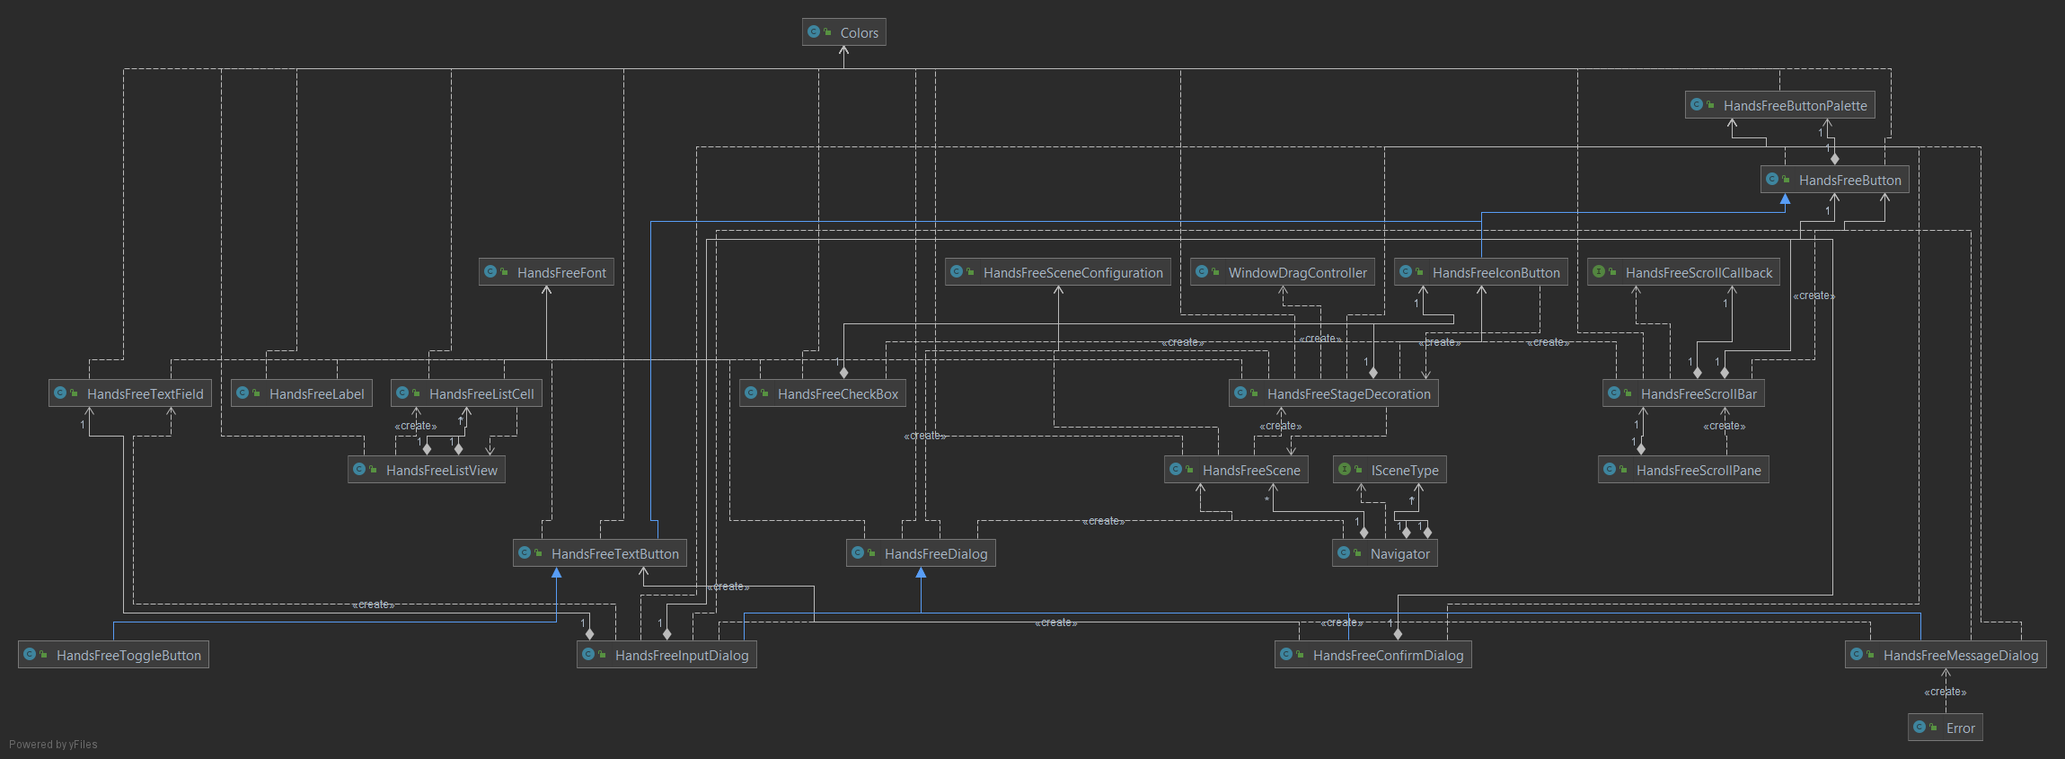
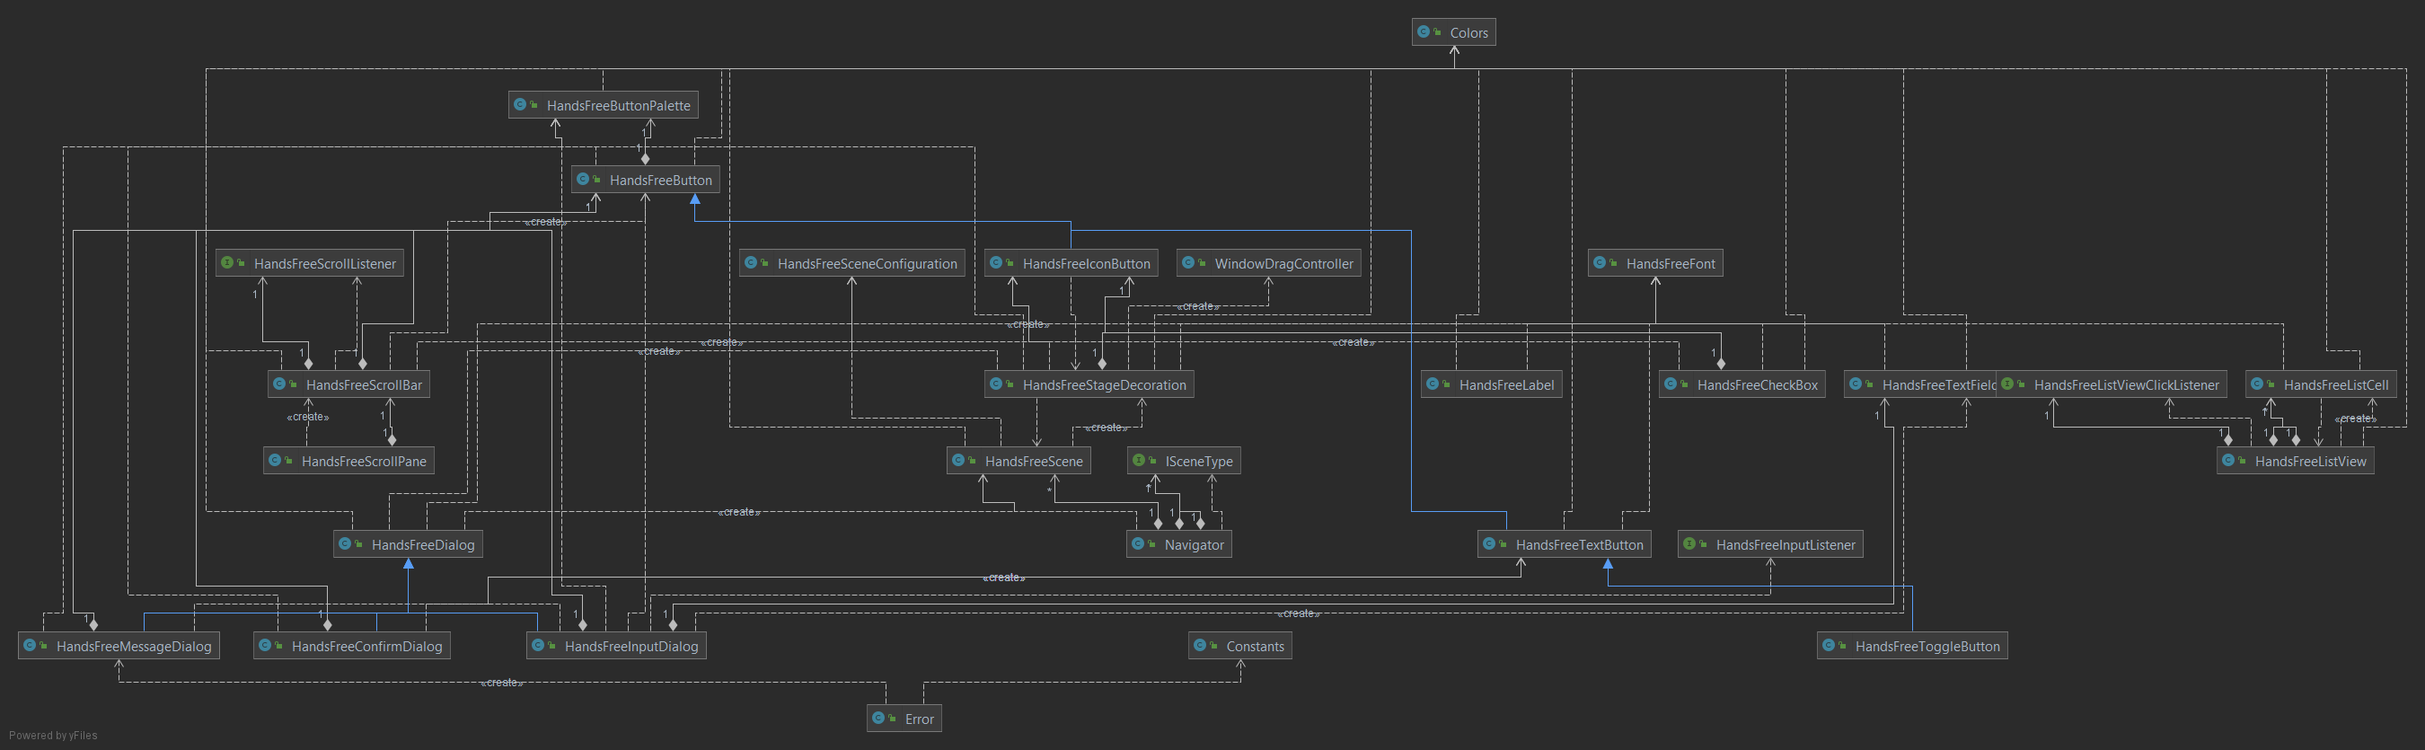
Updated the classes
Updated the class diagrams and descriptions

diff --git a/handsfree/installer/src/main/java/ch/bbcag/installer/scenes/DirectoryChooser.java b/handsfree/installer/src/main/java/ch/bbcag/installer/scenes/DirectoryChooser.java
@@ -4,7 +4,7 @@ import ch.bbcag.handsfree.error.Error;
 import ch.bbcag.handsfree.gui.HandsFreeLabel;
 import ch.bbcag.handsfree.gui.button.HandsFreeButtonPalette;
 import ch.bbcag.handsfree.gui.button.HandsFreeTextButton;
-import ch.bbcag.installer.Const;
+import ch.bbcag.installer.InstallerConstants;
 import ch.bbcag.installer.InstallerApplication;
 import ch.bbcag.installer.error.ErrorMessages;
 import javafx.application.Platform;
@@ -33,7 +33,7 @@ public class DirectoryChooser extends InstallerScene {
                 "Select a path where to install the program down below or leave it at the standard path and continue."
         );
         label.setWrapText(true);
-        BorderPane.setMargin(label, Const.LABEL_MARGIN);
+        BorderPane.setMargin(label, InstallerConstants.LABEL_MARGIN);
 
         application.setSelectedPath(new File("C:/Program Files/HandsFree/"));
         directoryText = new HandsFreeLabel(application.getSelectedPath().getAbsolutePath());
@@ -55,14 +55,14 @@ public class DirectoryChooser extends InstallerScene {
         }
 
         HandsFreeTextButton directorySelector = new HandsFreeTextButton("Select...");
-        directorySelector.setPrefWidth(Const.BUTTON_WIDTH);
-        directorySelector.setPadding(Const.BUTTON_PADDING);
+        directorySelector.setPrefWidth(InstallerConstants.BUTTON_WIDTH);
+        directorySelector.setPadding(InstallerConstants.BUTTON_PADDING);
         directorySelector.setOnAction(e -> {
             File chosenPath = directoryChooser.showDialog(application.getPrimaryStage());
             setSelectedPathAndText(application, chosenPath);
         });
 
-        HBox hBox = new HBox(Const.BOX_SPACING, directoryText, directorySelector);
+        HBox hBox = new HBox(InstallerConstants.BOX_SPACING, directoryText, directorySelector);
         hBox.maxHeightProperty().bind(directorySelector.heightProperty());
         hBox.setAlignment(Pos.CENTER_LEFT);
         BorderPane.setAlignment(hBox, Pos.TOP_LEFT);
@@ -101,18 +101,18 @@ public class DirectoryChooser extends InstallerScene {
         try {
             createSelectedPathIfNotCreated(application);
 
-            File targetJarFile = new File(application.getSelectedPath().getAbsolutePath() + "/" + Const.JAR_FILE_NAME);
+            File targetJarFile = new File(application.getSelectedPath().getAbsolutePath() + "/" + InstallerConstants.JAR_FILE_NAME);
             createFileAndParentFileIfNotCreated(targetJarFile);
 
-            File targetIconFile = new File(application.getSelectedPath().getAbsolutePath() + "/" + Const.ICON_NAME);
+            File targetIconFile = new File(application.getSelectedPath().getAbsolutePath() + "/" + InstallerConstants.ICON_NAME);
             createFileAndParentFileIfNotCreated(targetIconFile);
 
-            File targetExeFile = new File(application.getSelectedPath().getAbsolutePath() + "/" + Const.EXE_FILE_NAME);
+            File targetExeFile = new File(application.getSelectedPath().getAbsolutePath() + "/" + InstallerConstants.EXE_FILE_NAME);
             createFileAndParentFileIfNotCreated(targetExeFile);
 
-            InputStream jarInputStream = DirectoryChooser.class.getResourceAsStream("/" + Const.JAR_FILE_NAME);
-            InputStream iconInputStream = DirectoryChooser.class.getResourceAsStream("/" + Const.ICON_NAME);
-            InputStream exeInputStream = DirectoryChooser.class.getResourceAsStream("/" + Const.EXE_FILE_NAME);
+            InputStream jarInputStream = DirectoryChooser.class.getResourceAsStream("/" + InstallerConstants.JAR_FILE_NAME);
+            InputStream iconInputStream = DirectoryChooser.class.getResourceAsStream("/" + InstallerConstants.ICON_NAME);
+            InputStream exeInputStream = DirectoryChooser.class.getResourceAsStream("/" + InstallerConstants.EXE_FILE_NAME);
 
             copyFiles(jarInputStream, targetJarFile);
             copyFiles(iconInputStream, targetIconFile);

diff --git a/handsfree/uninstaller/src/main/java/ch/bbcag/uninstaller/scenes/UnInstallerScene.java b/handsfree/uninstaller/src/main/java/ch/bbcag/uninstaller/scenes/UnInstallerScene.java
@@ -4,7 +4,7 @@ import ch.bbcag.handsfree.gui.HandsFreeScene;
 import ch.bbcag.handsfree.gui.HandsFreeSceneConfiguration;
 import ch.bbcag.handsfree.gui.button.HandsFreeButtonPalette;
 import ch.bbcag.handsfree.gui.button.HandsFreeTextButton;
-import ch.bbcag.uninstaller.Const;
+import ch.bbcag.uninstaller.UninstallerConstants;
 import javafx.animation.AnimationTimer;
 import javafx.geometry.Insets;
 import javafx.geometry.Pos;
@@ -27,16 +27,16 @@ public class UninstallerScene extends HandsFreeScene {
     public UninstallerScene(Stage stage, HandsFreeSceneConfiguration configuration) {
         super(stage, new HBox(), configuration);
 
-        getContentRoot().setMinSize(Const.WIDTH, Const.HEIGHT);
-        getContentRoot().setMaxSize(Const.WIDTH, Const.HEIGHT);
+        getContentRoot().setMinSize(UninstallerConstants.WIDTH, UninstallerConstants.HEIGHT);
+        getContentRoot().setMaxSize(UninstallerConstants.WIDTH, UninstallerConstants.HEIGHT);
 
         borderPane = new BorderPane();
-        borderPane.setPadding(new Insets(Const.BOX_PADDING_TOP_BOTTOM, Const.BOX_PADDING_RIGHT_LEFT, Const.BOX_PADDING_TOP_BOTTOM,
-                                         Const.BOX_PADDING_RIGHT_LEFT));
+        borderPane.setPadding(new Insets(UninstallerConstants.BOX_PADDING_TOP_BOTTOM, UninstallerConstants.BOX_PADDING_RIGHT_LEFT, UninstallerConstants.BOX_PADDING_TOP_BOTTOM,
+                                         UninstallerConstants.BOX_PADDING_RIGHT_LEFT));
         HBox.setHgrow(borderPane, Priority.ALWAYS);
         ((HBox) getContentRoot()).getChildren().add(borderPane);
 
-        buttonHBox = new HBox(Const.BOX_SPACING);
+        buttonHBox = new HBox(UninstallerConstants.BOX_SPACING);
         buttonHBox.setAlignment(Pos.BOTTOM_RIGHT);
         borderPane.setBottom(buttonHBox);
     }
@@ -50,8 +50,8 @@ public class UninstallerScene extends HandsFreeScene {
         LinearGradient gradient = new LinearGradient(0, 0, 1, 0, true, CycleMethod.NO_CYCLE, stops);
 
         Pane imageContainer = new Pane();
-        imageContainer.setMinWidth(Const.HEIGHT * 0.6);
-        imageContainer.setMinHeight(Const.HEIGHT);
+        imageContainer.setMinWidth(UninstallerConstants.HEIGHT * 0.6);
+        imageContainer.setMinHeight(UninstallerConstants.HEIGHT);
         imageContainer.setBackground(new Background(new BackgroundFill(gradient, null, null)));
 
         ImageView imageView = new ImageView(new Image(Objects.requireNonNull(Start.class.getResourceAsStream("/images/icon128.png"))));
@@ -79,8 +79,8 @@ public class UninstallerScene extends HandsFreeScene {
 
     public void addButton(String text, HandsFreeButtonPalette palette, Runnable onClicked) {
         HandsFreeTextButton button = new HandsFreeTextButton(text);
-        button.setPrefWidth(Const.BUTTON_WIDTH);
-        button.setPadding(Const.BUTTON_PADDING);
+        button.setPrefWidth(UninstallerConstants.BUTTON_WIDTH);
+        button.setPadding(UninstallerConstants.BUTTON_PADDING);
         button.setPalette(palette);
         button.setOnAction(event -> {
             if(onClicked != null) {

diff --git a/handsfree/application/src/main/java/ch/bbcag/handsfree/scenes/MainMenu.java b/handsfree/application/src/main/java/ch/bbcag/handsfree/scenes/MainMenu.java
@@ -1,6 +1,6 @@
 package ch.bbcag.handsfree.scenes;
 
-import ch.bbcag.handsfree.Const;
+import ch.bbcag.handsfree.ApplicationConstants;
 import ch.bbcag.handsfree.HandsFreeApplication;
 import ch.bbcag.handsfree.HandsFreeContext;
 import ch.bbcag.handsfree.config.Autorun;
@@ -11,8 +11,6 @@ import ch.bbcag.handsfree.error.SpeechRecognizerException;
 import ch.bbcag.handsfree.gui.HandsFreeScrollPane;
 import ch.bbcag.handsfree.gui.button.HandsFreeTextButton;
 import ch.bbcag.handsfree.gui.button.HandsFreeToggleButton;
-import ch.bbcag.handsfree.gui.dialog.HandsFreeMessageDialog;
-import ch.bbcag.handsfree.gui.onscreenkeyboard.HandsFreeOnScreenKeyboard;
 import javafx.scene.layout.HBox;
 import javafx.scene.layout.VBox;
 
@@ -29,8 +27,8 @@ public class MainMenu extends ApplicationScene {
     public MainMenu(HandsFreeApplication application, HandsFreeContext context) {
         super(application.getPrimaryStage(), new HandsFreeScrollPane(), application.getConfiguration(), "HandsFree");
 
-        getContentRoot().setMinSize(Const.WIDTH, Const.HEIGHT);
-        getContentRoot().setMaxSize(Const.WIDTH, Const.HEIGHT);
+        getContentRoot().setMinSize(ApplicationConstants.WIDTH, ApplicationConstants.HEIGHT);
+        getContentRoot().setMaxSize(ApplicationConstants.WIDTH, ApplicationConstants.HEIGHT);
 
         initGUI(application, context);
     }
@@ -68,10 +66,10 @@ public class MainMenu extends ApplicationScene {
         initToggleSpeechControl(context);
         initToggleOnScreenKeyboard(context);
         initToggleAutorun();
-        toggleEyeTracking.setEnabled(Configuration.readConfiguration(Const.EYE_TRACKING_STATE));
-        toggleHeadTracking.setEnabled(Configuration.readConfiguration(Const.HEAD_TRACKING_STATE));
-        toggleSpeechControl.setEnabled(Configuration.readConfiguration(Const.SPEECH_CONTROL_STATE));
-        toggleAutorun.setEnabled(Configuration.readConfiguration(Const.AUTORUN_STATE));
+        toggleEyeTracking.setEnabled(Configuration.readConfiguration(ApplicationConstants.EYE_TRACKING_STATE));
+        toggleHeadTracking.setEnabled(Configuration.readConfiguration(ApplicationConstants.HEAD_TRACKING_STATE));
+        toggleSpeechControl.setEnabled(Configuration.readConfiguration(ApplicationConstants.SPEECH_CONTROL_STATE));
+        toggleAutorun.setEnabled(Configuration.readConfiguration(ApplicationConstants.AUTORUN_STATE));
         hasBeenRead = true;
     }
 

diff --git a/handsfree/installer/src/main/java/ch/bbcag/installer/scenes/Shortcut.java b/handsfree/installer/src/main/java/ch/bbcag/installer/scenes/Shortcut.java
@@ -4,7 +4,7 @@ import ch.bbcag.handsfree.error.Error;
 import ch.bbcag.handsfree.gui.HandsFreeCheckBox;
 import ch.bbcag.handsfree.gui.HandsFreeLabel;
 import ch.bbcag.handsfree.gui.button.HandsFreeButtonPalette;
-import ch.bbcag.installer.Const;
+import ch.bbcag.installer.InstallerConstants;
 import ch.bbcag.installer.InstallerApplication;
 import ch.bbcag.installer.error.ErrorMessages;
 import javafx.application.Platform;
@@ -30,13 +30,13 @@ public class Shortcut extends InstallerScene {
                                                   "you want to have a desktop and a start menu shortcut.\n" +
                                                   "Check them if you want and continue.");
         label.setWrapText(true);
-        BorderPane.setMargin(label, Const.LABEL_MARGIN);
+        BorderPane.setMargin(label, InstallerConstants.LABEL_MARGIN);
 
         desktopShortcutCheckBox = new HandsFreeCheckBox("Create a desktop shortcut");
         desktopShortcutCheckBox.setSelected(true);
         startMenuShortcutCheckBox = new HandsFreeCheckBox("Create a start menu shortcut");
         startMenuShortcutCheckBox.setSelected(true);
-        VBox checkBoxHBox = new VBox(Const.BOX_SPACING, desktopShortcutCheckBox, startMenuShortcutCheckBox);
+        VBox checkBoxHBox = new VBox(InstallerConstants.BOX_SPACING, desktopShortcutCheckBox, startMenuShortcutCheckBox);
 
         addButton("Cancel", HandsFreeButtonPalette.DEFAULT_PALETTE, Platform::exit);
         addButton("< Back", HandsFreeButtonPalette.DEFAULT_PALETTE, () -> application.getNavigator().navigateTo(SceneType.DIRECTORY_CHOOSER));
@@ -47,8 +47,8 @@ public class Shortcut extends InstallerScene {
     }
 
     public void createShortcuts(InstallerApplication application) {
-        ShellLink shortcut = ShellLink.createLink(application.getSelectedPath() + "/" + Const.JAR_FILE_NAME)
-                                      .setIconLocation(application.getSelectedPath().getAbsolutePath() + "/" + Const.ICON_NAME);
+        ShellLink shortcut = ShellLink.createLink(application.getSelectedPath() + "/" + InstallerConstants.JAR_FILE_NAME)
+                                      .setIconLocation(application.getSelectedPath().getAbsolutePath() + "/" + InstallerConstants.ICON_NAME);
         setDesktopShortcut(shortcut);
         setStartMenuShortcut(shortcut);
     }

diff --git a/handsfree/application/src/main/java/ch/bbcag/handsfree/config/Configuration.java b/handsfree/application/src/main/java/ch/bbcag/handsfree/config/Configuration.java
@@ -1,6 +1,6 @@
 package ch.bbcag.handsfree.config;
 
-import ch.bbcag.handsfree.Const;
+import ch.bbcag.handsfree.ApplicationConstants;
 import ch.bbcag.handsfree.error.Error;
 import ch.bbcag.handsfree.error.ErrorMessages;
 
@@ -13,16 +13,16 @@ import java.util.Properties;
 public class Configuration {
 
     private static Properties configurations = new Properties();
-    private static File file = new File(Const.CONFIGURATION_FILE);
+    private static File file = new File(ApplicationConstants.CONFIGURATION_FILE);
 
     public static void writeConfiguration(boolean eyeTrackingState, boolean headTrackingState, boolean speechControlState, boolean autorunState) {
         try {
             createFileAndParentsIfNotCreated();
 
-            configurations.put(Const.EYE_TRACKING_STATE, String.valueOf(eyeTrackingState));
-            configurations.put(Const.HEAD_TRACKING_STATE, String.valueOf(headTrackingState));
-            configurations.put(Const.SPEECH_CONTROL_STATE, String.valueOf(speechControlState));
-            configurations.put(Const.AUTORUN_STATE, String.valueOf(autorunState));
+            configurations.put(ApplicationConstants.EYE_TRACKING_STATE, String.valueOf(eyeTrackingState));
+            configurations.put(ApplicationConstants.HEAD_TRACKING_STATE, String.valueOf(headTrackingState));
+            configurations.put(ApplicationConstants.SPEECH_CONTROL_STATE, String.valueOf(speechControlState));
+            configurations.put(ApplicationConstants.AUTORUN_STATE, String.valueOf(autorunState));
 
             FileOutputStream outputStream = new FileOutputStream(file);
             configurations.store(outputStream, "");

diff --git a/handsfree/application/src/main/java/ch/bbcag/handsfree/control/shortcuts/ShortcutManager.java b/handsfree/application/src/main/java/ch/bbcag/handsfree/control/shortcuts/ShortcutManager.java
@@ -1,6 +1,6 @@
 package ch.bbcag.handsfree.control.shortcuts;
 
-import ch.bbcag.handsfree.Const;
+import ch.bbcag.handsfree.ApplicationConstants;
 import ch.bbcag.handsfree.HandsFreeContext;
 import ch.bbcag.handsfree.error.Error;
 import ch.bbcag.handsfree.error.ErrorMessages;
@@ -32,7 +32,7 @@ public class ShortcutManager {
         try {
             shortcuts.add(shortcut);
             ShortcutWriter writer = new ShortcutWriter();
-            writer.write(shortcut, new File(Const.SHORTCUT_FOLDER));
+            writer.write(shortcut, new File(ApplicationConstants.SHORTCUT_FOLDER));
             context.getSpeechRecognizer().addListener(shortcut.getName(), () -> runShortcut(shortcut.getName()));
         } catch(IOException e) {
             Error.reportCritical(ErrorMessages.WRITE_SHORTCUT, e);
@@ -51,7 +51,7 @@ public class ShortcutManager {
     }
 
     private void deleteShortcut(String name) throws IOException {
-        for(File file : Objects.requireNonNull(new File(Const.SHORTCUT_FOLDER).listFiles())) {
+        for(File file : Objects.requireNonNull(new File(ApplicationConstants.SHORTCUT_FOLDER).listFiles())) {
             FileInputStream in = new FileInputStream(file);
             BufferedReader reader = new BufferedReader(new InputStreamReader(in));
             String firstLine = reader.readLine();

diff --git a/handsfree/application/src/main/java/ch/bbcag/handsfree/ApplicationConstants.java b/handsfree/application/src/main/java/ch/bbcag/handsfree/ApplicationConstants.java
@@ -2,7 +2,7 @@ package ch.bbcag.handsfree;
 
 import javafx.geometry.Insets;
 
-public class Const extends Constants {
+public class ApplicationConstants extends Constants {
     public static final double WIDTH = 900;
     public static final double HEIGHT = 600;
 
@@ -10,8 +10,8 @@ public class Const extends Constants {
 
     private static final int V_BOX_PADDING_TOP_BOTTOM = 50;
     private static final int V_BOX_PADDING_RIGHT_LEFT = 100;
-    public static final Insets PADDING = new Insets(Const.V_BOX_PADDING_TOP_BOTTOM, Const.V_BOX_PADDING_RIGHT_LEFT, Const.V_BOX_PADDING_TOP_BOTTOM,
-                                                    Const.V_BOX_PADDING_RIGHT_LEFT);
+    public static final Insets PADDING = new Insets(ApplicationConstants.V_BOX_PADDING_TOP_BOTTOM, ApplicationConstants.V_BOX_PADDING_RIGHT_LEFT, ApplicationConstants.V_BOX_PADDING_TOP_BOTTOM,
+                                                    ApplicationConstants.V_BOX_PADDING_RIGHT_LEFT);
 
     public static final String EYE_TRACKING_STATE = "Eye_Tracking_State";
     public static final String HEAD_TRACKING_STATE = "Head_Tracking_State";

diff --git a/handsfree/uninstaller/src/main/java/ch/bbcag/uninstaller/UninstallerConstants.java b/handsfree/uninstaller/src/main/java/ch/bbcag/uninstaller/UninstallerConstants.java
@@ -1,9 +1,9 @@
-package ch.bbcag.installer;
+package ch.bbcag.uninstaller;
 
 import ch.bbcag.handsfree.Constants;
 import javafx.geometry.Insets;
 
-public class Const extends Constants {
+public class UninstallerConstants extends Constants {
 
     public static final double WIDTH = 800;
     public static final double HEIGHT = 400;
@@ -16,9 +16,5 @@ public class Const extends Constants {
     public static final Insets BUTTON_PADDING = new Insets(10, 0, 10, 0);
 
     public static final Insets LABEL_MARGIN = new Insets(0, 0, 30, 0);
-
-    public static final String JAR_FILE_NAME = "application-1.0-SNAPSHOT.jar";
-    public static final String EXE_FILE_NAME = "uninstaller.exe";
-    public static final String ICON_NAME = "icon.ico";
 
 }

diff --git a/handsfree/installer/src/main/java/ch/bbcag/installer/InstallerConstants.java b/handsfree/installer/src/main/java/ch/bbcag/installer/InstallerConstants.java
@@ -1,9 +1,9 @@
-package ch.bbcag.uninstaller;
+package ch.bbcag.installer;
 
 import ch.bbcag.handsfree.Constants;
 import javafx.geometry.Insets;
 
-public class Const extends Constants {
+public class InstallerConstants extends Constants {
 
     public static final double WIDTH = 800;
     public static final double HEIGHT = 400;
@@ -16,5 +16,9 @@ public class Const extends Constants {
     public static final Insets BUTTON_PADDING = new Insets(10, 0, 10, 0);
 
     public static final Insets LABEL_MARGIN = new Insets(0, 0, 30, 0);
+
+    public static final String JAR_FILE_NAME = "application-1.0-SNAPSHOT.jar";
+    public static final String EXE_FILE_NAME = "uninstaller.exe";
+    public static final String ICON_NAME = "icon.ico";
 
 }

diff --git a/handsfree/application/src/main/java/ch/bbcag/handsfree/HandsFreeApplication.java b/handsfree/application/src/main/java/ch/bbcag/handsfree/HandsFreeApplication.java
@@ -31,7 +31,7 @@ public class HandsFreeApplication extends Application {
 
         try {
             context = new HandsFreeContext(primaryStage);
-            context.getShortcutManager().readShortcuts(new File(Const.SHORTCUT_FOLDER));
+            context.getShortcutManager().readShortcuts(new File(ApplicationConstants.SHORTCUT_FOLDER));
 
             initGUI();
         } catch(HandsFreeRobotException e) {

diff --git a/docs/documentation/classes/classes.md b/docs/documentation/classes/classes.md
@@ -5,7 +5,7 @@
         * Launcher: To start the application
         * HandsFreeApplication: To manage the scene, for example the close- or minimize requests
         * HandsFreeContext: To provide common control elements to other classes
-        * Const: All the common constants
+        * ApplicationConstants: All the common constants from the application
         * Config
             * Autorun: To make the app start on the start of windows
             * Configuration: To save and read the toggle state of the buttons to and from files
@@ -52,6 +52,7 @@
                 * VirtualKeyboardLayout: The layout of the on-screen keyboard
                 * VirtualKeyboardLayoutLoader: To load the keyboard layout from a file
                 * VirtualKeyRow: A row of virtual keys from a keyboard-layout
+                * WordSuggestions: To get the best word suggestions for the word you typed
         * Scenes
             * ApplicationScene: The parent scene with all the common content
             * SceneType: The list of the scenes
@@ -62,6 +63,7 @@
             * NativeLibraryLoader: To load native libraries
             * TemporaryFile: To write to temporary files
 * Common
+    * Constants: All the common constants from the subprojects
     * Error
         * Error: To report errors and amongst other things, write them in log files
     * GUI
@@ -72,6 +74,7 @@
         * HandsFreeLabel: A label in the HandsFreeStyle
         * HandsFreeListCell: A list cell in the HandsFreeStyle
         * HandsFreeListView: A list in the HandsFreeStyle
+        * HandsFreeViewClickListener: To track a click on a cell in a list
         * HandsFreeScene: A scene in the HandsFreeStyle
         * HandsFreeSceneConfiguration: The configuration, for example the title of a scene
         * HandsFreeScrollBar: A scrollbar in the HandsFreeStyle
@@ -89,6 +92,7 @@
             * HandsFreeDialog: The parent dialog with the common things of all the dialogs
             * HandsFreeConfirmDialog: A dialog with two buttons, one to confirm and one to deny
             * HandsFreeInputDialog: A dialog with an input field
+            * HandsFreeInputListener: To track if you, for example, click enter to close the dialog
             * HandsFreeMessageDialog: A dialog with only one button, to close it, to display messages
     * Scenes
         * ISceneType: The parent scene type of all the scene types
@@ -96,7 +100,7 @@
 * Installer
     * Launcher: To start the application
     * InstallerApplication: To manage the scene, for example the close- or minimize requests
-    * Const: All the common constants
+    * InstallerConstants: All the common constants from the installer
     * Error
         * ErrorMessages: All the error messages
     * Scenes
@@ -109,7 +113,7 @@
 * Uninstaller
     * Launcher: To start the application
     * UninstallerApplication: To manage the scene, for example the close- or minimize requests
-    * Const: All the common constants
+    * UninstallerConstants: All the common constants from the uninstaller
     * Error
         * ErrorMessages: All the error messages
     * Scenes

diff --git a/README.md b/README.md
@@ -72,12 +72,16 @@ Das Daily Scrum wird jeweils um 08:30 Uhr durchgeführt
 * Angemessen dokumentiert
 * Testprotokolle vorhanden und ausgefüllt
 * Von anderen Benutzern getestet
+* Code Style wird eingehalten
+* Code ist aufgeräumt
 ## Fazit
+### Positiv
 Wir konnten alle Ziele, ob obligatorisch oder optional, erfüllen. Die Zusammenarbeit
 lief relativ gut. Beispielsweise war es möglich, dass zwei gleichzeitig an Teilen
 eines Systems arbeiteten, ohne dass sie sich in die Quere kamen oder die Teile nicht
 zusammengeführt werden konnten. Wir haben auch viel Neues gelernt
-(JNI, Launch4J, TestFX, C++, etc.).<br>
+(JNI, Launch4J, TestFX, C++, etc.).
+### Negativ
 Was allerdings nicht so gut lief, war, dass wir
 die Projektstruktur nicht sehr gut geplant haben. So musste das Projekt beispielsweise
 in mehrere Unterprojekte aufgeteilt werden, als wir einen Installer hinzufügen wollten.
